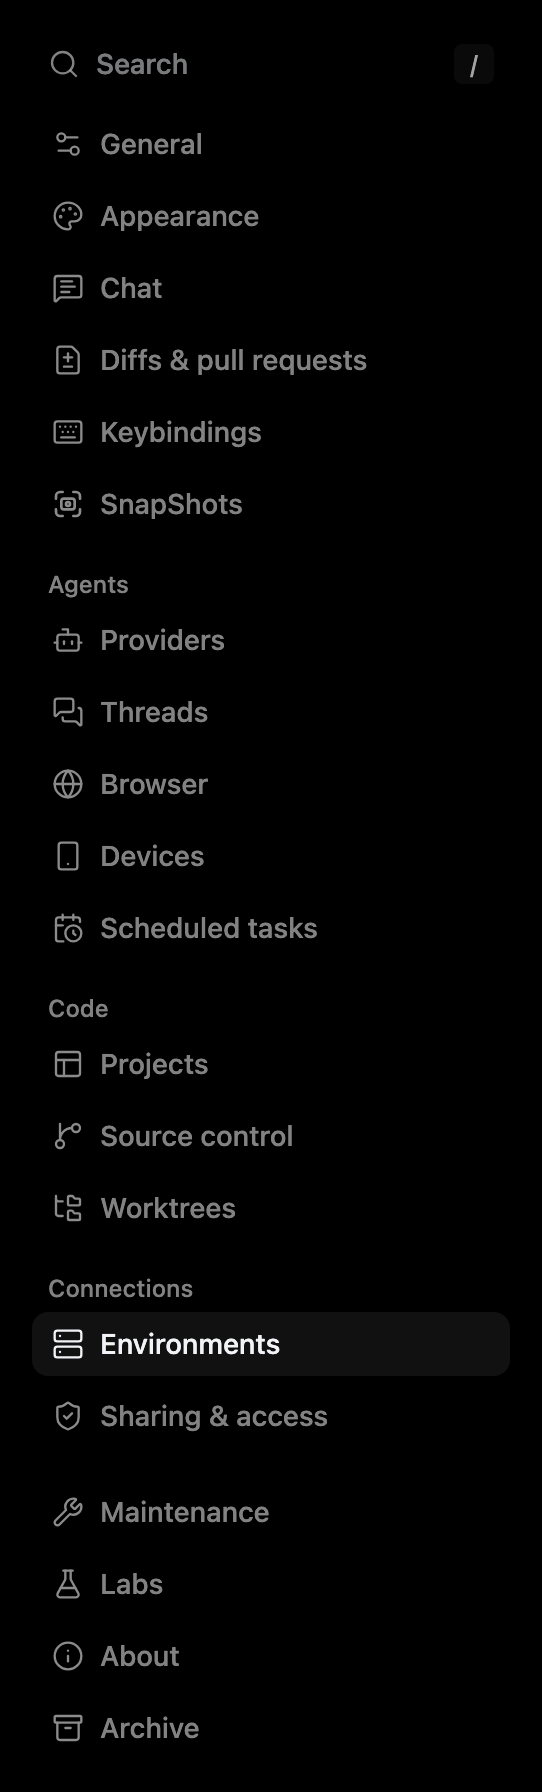
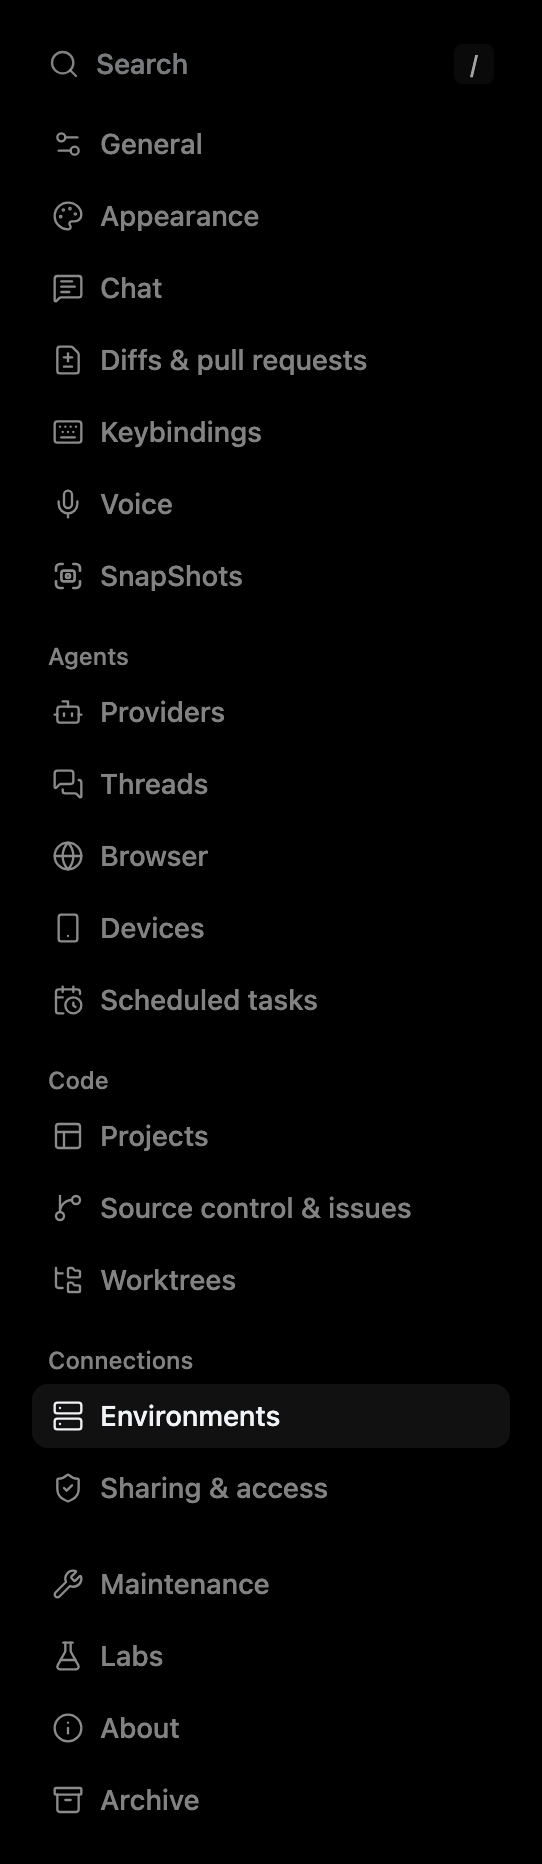
test(settings): move the Connections nav reference to 4928 markup
ConnectionsFidelityTests `nav.rest.dark` failed at 10.78% against its 6.5%
ceiling because its reference came from 3754's nav. b8bb3f31 correctly
added 4928's Voice row after Keybindings with lucide mic and renamed the row
to "Source control & issues" (settingsSearch.ts:95-176, SettingsSidebarNav.tsx
:88-110 at 4928), which moved every row below.

scripts/gen-connections-spec.py now builds the nav from 4928's groups and
labels, and scripts/component-reference recaptured the `nav` case headless.
Both themes of that case are recaptured, since they share one manifest
height (880 to 916). The other cases keep their references.

Tested: ConnectionsFidelityTests passes at the existing ceilings,
nav.rest.dark 1.65% and nav.rest.light 1.75%.

diff --git a/scripts/gen-connections-spec.py b/scripts/gen-connections-spec.py
@@ -67,14 +67,15 @@ MB = ("peer/menu-button flex w-full cursor-pointer items-center gap-[var(--sideb
 SNAPSHOT = ('<svg xmlns="http://www.w3.org/2000/svg" width="24" height="24" viewBox="0 0 24 24" fill="none" stroke="currentColor" stroke-width="2" '
             'stroke-linecap="round" stroke-linejoin="round" aria-hidden="true"><path d="M8 3H6a3 3 0 0 0-3 3v2M16 3h2a3 3 0 0 1 3 3v2M21 16v2a3 3 0 0 1-3 3h-2M8 21H6a3 3 0 0 1-3-3v-2"></path>'
             '<rect width="10" height="8" x="7" y="8" rx="2"></rect><circle cx="12" cy="12" r="1.5"></circle></svg>')
-# Nightly 3754 settingsSearch.ts:85-143 and SettingsSidebarNav.tsx:83-106, 350-403.
+# Nightly 4928 settingsSearch.ts:95-176 (`SETTINGS_NAV_LABELS`, `SETTINGS_NAV_GROUPS`) and SettingsSidebarNav.tsx:88-110:
+# Voice with lucide mic after Keybindings, "Source control & issues". Secrets shows only behind its feature flag.
 # Keep the old theme's stylesheet; only the concern groups and their content changed.
 NAV_GROUPS = [
     (None, [("General", "settings-2"), ("Appearance", "palette"), ("Chat", "message-square-text"),
-            ("Diffs & pull requests", "file-diff"), ("Keybindings", "keyboard"), ("SnapShots", None)]),
+            ("Diffs & pull requests", "file-diff"), ("Keybindings", "keyboard"), ("Voice", "mic"), ("SnapShots", None)]),
     ("Agents", [("Providers", "bot"), ("Threads", "messages-square"), ("Browser", "globe"),
                 ("Devices", "smartphone"), ("Scheduled tasks", "calendar-clock")]),
-    ("Code", [("Projects", "panels-top-left"), ("Source control", "git-branch"), ("Worktrees", "folder-tree")]),
+    ("Code", [("Projects", "panels-top-left"), ("Source control & issues", "git-branch"), ("Worktrees", "folder-tree")]),
     ("Connections", [("Environments", "server"), ("Sharing & access", "shield-check")]),
     (None, [("Maintenance", "wrench"), ("Labs", "flask-conical"), ("About", "info"), ("Archive", "archive")]),
 ]
